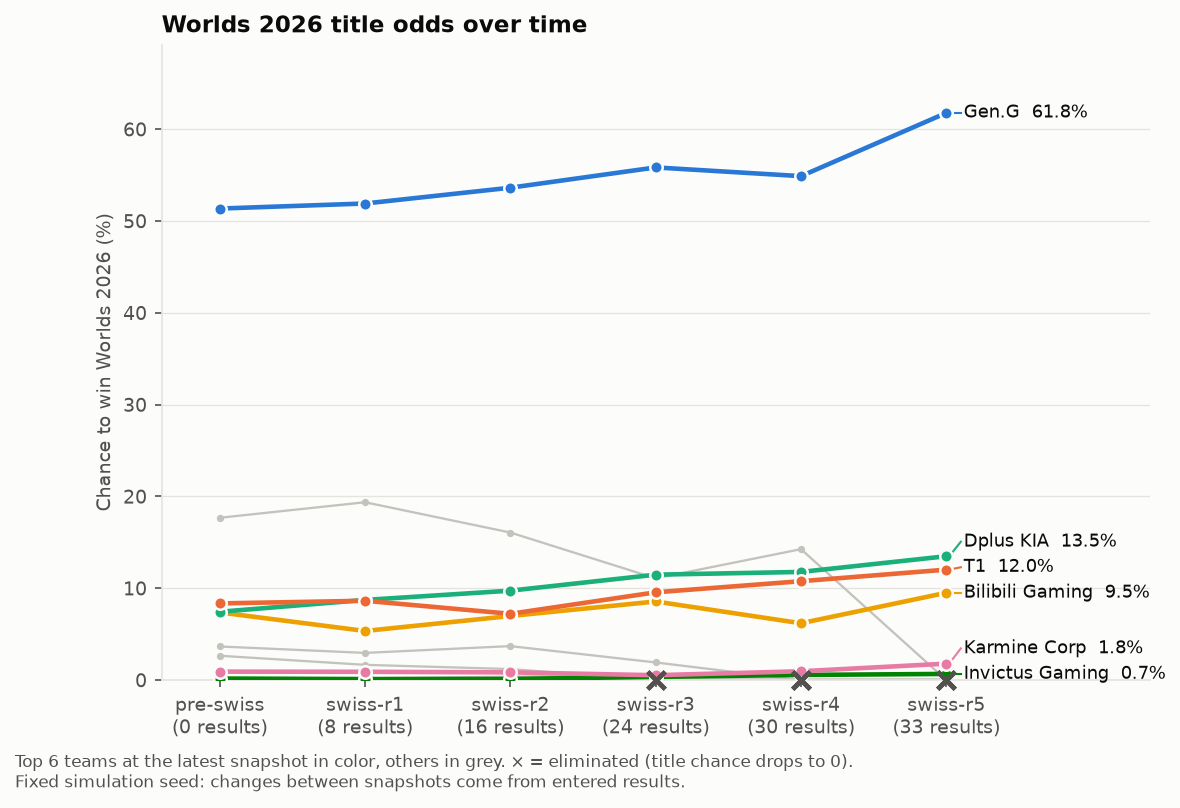
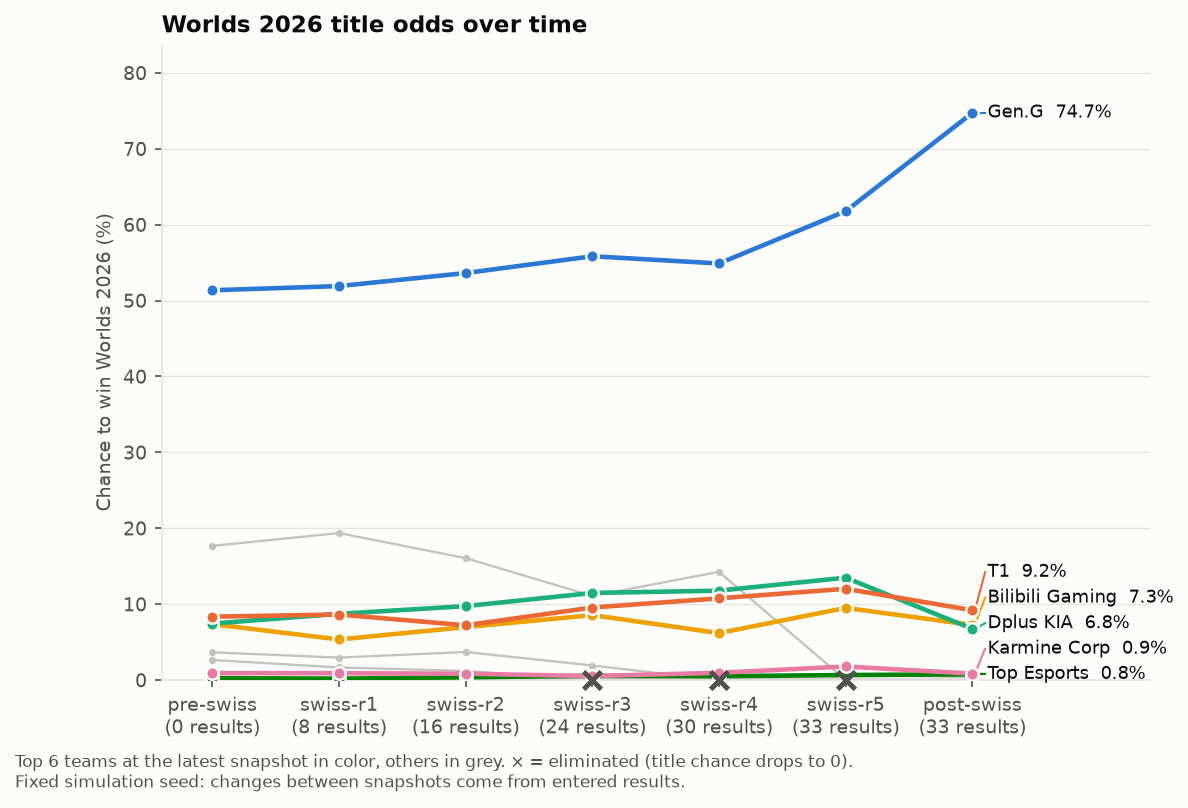
Another update factoring in Knockout bracket draw

diff --git a/README.md b/README.md
@@ -6,17 +6,17 @@ Forecasts the League of Legends World Championship 2026 from pro match data, usi
 
 ## Current prediction
 
-**As of the end of the Swiss stage, Nov 2, 2026** (all 33 Swiss results entered; ratings use games through Oct 18, 2026; 10,000 simulated knockout brackets)
+**As of the quarterfinal draw, Nov 2026** (all 33 Swiss results entered; ratings use games through Oct 18, 2026; 10,000 simulations of the actual bracket)
 
 | Team | Title chance |
 |---|---|
-| Gen.G | 61.8% |
-| Dplus KIA | 13.5% |
-| T1 | 12.0% |
-| Bilibili Gaming | 9.5% |
-| Karmine Corp | 1.8% |
+| Gen.G | 74.7% |
+| T1 | 9.2% |
+| Bilibili Gaming | 7.3% |
+| Dplus KIA | 6.8% |
+| Karmine Corp | 0.9% |
 
-The quarterfinal bracket is still drawn at random under the Worlds draw rules until the real draw is entered. Full per-team odds for reaching the semifinals, final and title are in [`outputs/sim_results.csv`](outputs/sim_results.csv).
+Quarterfinals: Top Esports vs Invictus Gaming and Gen.G vs LYON on one side of the bracket, Dplus KIA vs Bilibili Gaming and T1 vs Karmine Corp on the other. Full per-team odds for reaching the semifinals, final and title are in [`outputs/sim_results.csv`](outputs/sim_results.csv).
 
 ## Odds over time
 
